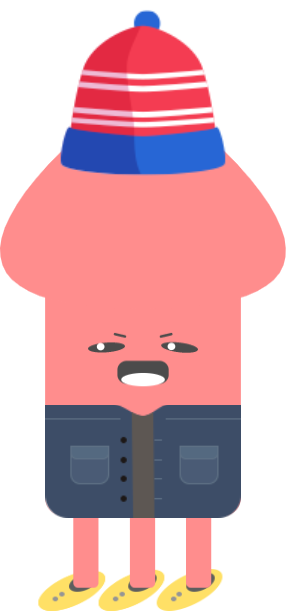
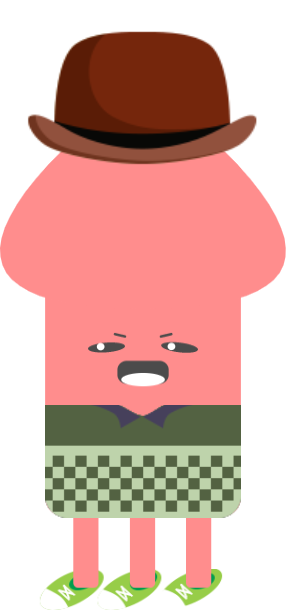
衣服等級修正

diff --git a/dressingRoom.php b/dressingRoom.php
@@ -39,7 +39,7 @@
     AND mem_lv <= :mem_lv";
     $hats = $pdo->prepare($hatsSQL); 
     $hats->bindValue(':clo_type', 1);
-    $hats->bindValue(':mem_lv', 3);
+    $hats->bindValue(':mem_lv', $mem_lv);
     $hats->execute();
 
     // 從資料庫抓衣服
@@ -50,7 +50,7 @@
     AND mem_lv <= :mem_lv";
     $clothes = $pdo->prepare($clothesSQL);
     $clothes->bindValue(':clo_type', 2);
-    $clothes->bindValue(':mem_lv', 3);
+    $clothes->bindValue(':mem_lv', $mem_lv);
     $clothes->execute();
 
     // 從資料庫抓鞋子
@@ -61,7 +61,7 @@
     AND mem_lv <= :mem_lv";
     $shoes = $pdo->prepare($shoesSQL);
     $shoes->bindValue(':clo_type', 3);
-    $shoes->bindValue(':mem_lv', 3);
+    $shoes->bindValue(':mem_lv', $mem_lv);
     $shoes->execute();
 
   } catch(PDOException $e) {
